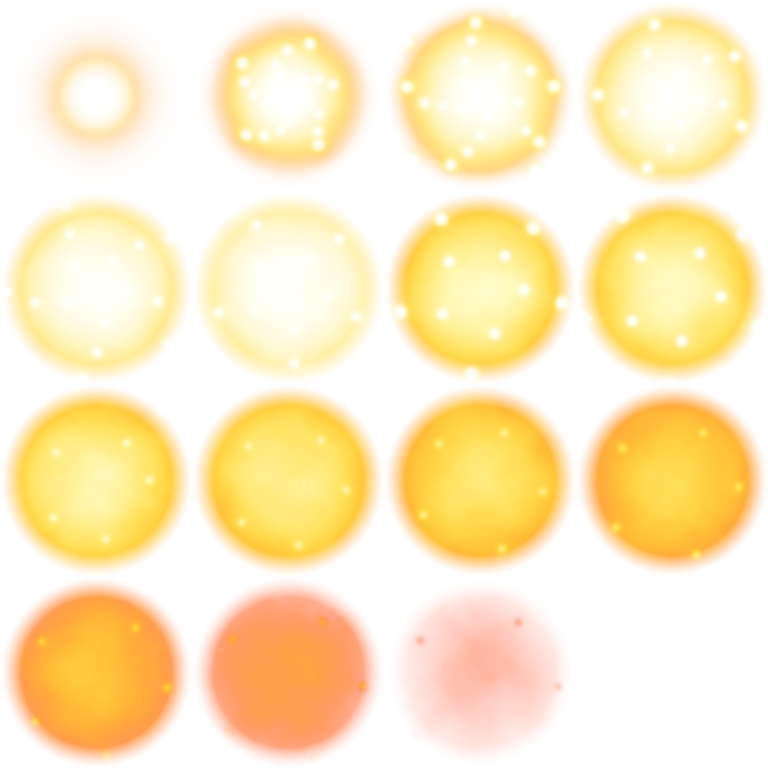
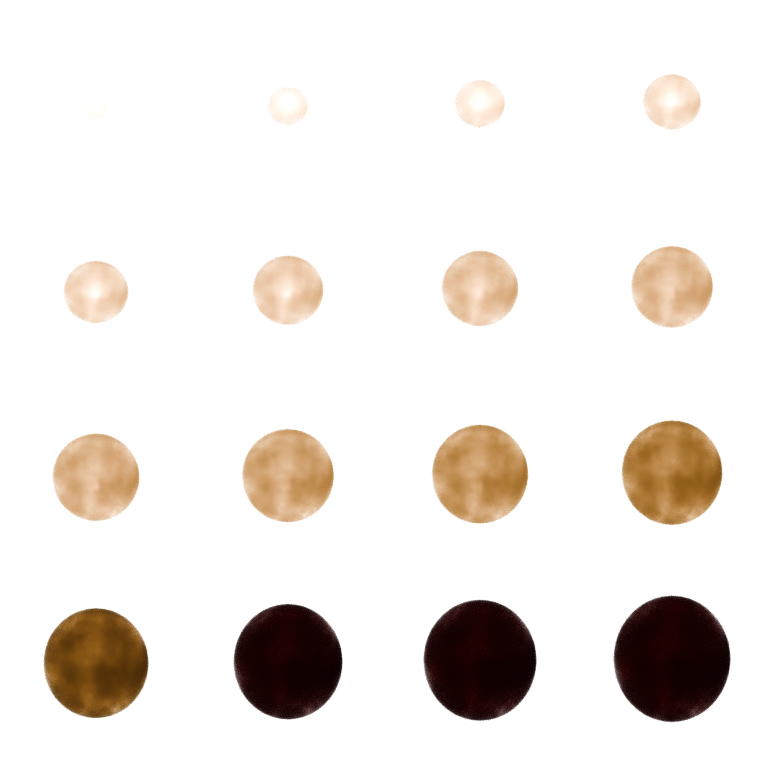
feat(vfx): impact Forge rendu en 3D volumetrique et particules physiques Cycles (v11.69)

diff --git a/tools/vfx_blender/forge_cycles_vfx.py b/tools/vfx_blender/forge_cycles_vfx.py
@@ -1,0 +1,205 @@
+#!/usr/bin/env python3
+"""
+SIMULATION VOLUMÉTRIQUE 3D & PARTICULES CYCLES — FORGE (lob_slag)
+Sans Mantaflow (instable en mode script 5.0) :
+- Volumes Cycles 3D procéduraux (fumée + flammes avec bruit 3D FBM, absorption, diffusion et émission Blackbody).
+- Éclaboussures de lave visqueuse (sphères de magma qui fusionnent, éclats avec gravité et rebond).
+- Rendu Cycles caméra 3/4 isométrique du jeu (52°).
+- Sortie : 16 frames rendues, planche 4x4 (192x192 px par frame) et GIF animé haute fidélité.
+"""
+import os, sys, math, shutil
+import bpy
+import numpy as np
+from PIL import Image
+
+ROOT = os.path.dirname(os.path.dirname(os.path.dirname(os.path.abspath(__file__))))
+WORK = os.path.join(ROOT, "cine", "_vfx_forge_cycles")
+OUT_TS = os.path.join(ROOT, "game", "assets", "vfx", "ts")
+OUT_SHOWCASE = os.path.join(ROOT, "refs", "vfx_showcase")
+ART = r"C:\Users\Administrator\.gemini\antigravity-ide\brain\f4d60812-8c84-40f0-9aad-921d86be3fca"
+
+os.makedirs(WORK, exist_ok=True)
+os.makedirs(OUT_TS, exist_ok=True)
+os.makedirs(OUT_SHOWCASE, exist_ok=True)
+
+RES = 192
+SAMPLES = 24
+NF = 16
+
+# 1. Scène propre
+bpy.ops.wm.read_factory_settings(use_empty=True)
+sc = bpy.context.scene
+sc.render.engine = "CYCLES"
+sc.cycles.device = "CPU"
+sc.cycles.samples = SAMPLES
+sc.cycles.use_denoising = True
+sc.render.film_transparent = True
+sc.render.resolution_x = RES
+sc.render.resolution_y = RES
+sc.view_settings.view_transform = "AgX"
+
+# World noir pur
+world = bpy.data.worlds.new("BlackWorld")
+sc.world = world
+
+# Caméra 3/4 vue jeu
+cam = bpy.data.objects.new("Cam", bpy.data.cameras.new("Cam"))
+sc.collection.objects.link(cam)
+cam.data.type = "ORTHO"
+cam.data.ortho_scale = 3.6
+tilt = math.radians(52)
+dist = 15.0
+target = (0.0, 0.0, 0.6)
+cam.location = (0.0, target[1] - dist * math.cos(tilt), target[2] + dist * math.sin(tilt))
+cam.rotation_euler = (math.radians(90) - tilt, 0, 0)
+sc.camera = cam
+
+# Sol pour rebonds
+ground = bpy.data.objects.new("Ground", bpy.data.meshes.new("GroundMesh"))
+bpy.ops.mesh.primitive_plane_add(size=10, location=(0, 0, 0))
+ground = bpy.context.active_object
+ground.name = "Ground"
+ground.hide_render = True
+col = ground.modifiers.new("Col", "COLLISION")
+col.settings.damping_factor = 0.6
+col.settings.friction_factor = 0.5
+
+# Matériau de volume feu + fumée (shader volumétrique 3D Cycles)
+mat_vol = bpy.data.materials.new("ExplosionVol")
+mat_vol.use_nodes = True
+nt = mat_vol.node_tree
+nt.nodes.clear()
+
+out_node = nt.nodes.new("ShaderNodeOutputMaterial")
+pv = nt.nodes.new("ShaderNodeVolumePrincipled")
+nt.links.new(pv.outputs["Volume"], out_node.inputs["Volume"])
+
+# Bruit 3D procédural volumétrique
+tex_coord = nt.nodes.new("ShaderNodeTexCoord")
+noise = nt.nodes.new("ShaderNodeTexNoise")
+noise.inputs["Scale"].default_value = 3.2
+noise.inputs["Detail"].default_value = 4.0
+noise.inputs["Roughness"].default_value = 0.6
+nt.links.new(tex_coord.outputs["Object"], noise.inputs["Vector"])
+
+# Contrôle densité et flamme
+map_range = nt.nodes.new("ShaderNodeMapRange")
+map_range.inputs["From Min"].default_value = 0.3
+map_range.inputs["From Max"].default_value = 0.7
+map_range.inputs["To Min"].default_value = 0.0
+map_range.inputs["To Max"].default_value = 8.0
+nt.links.new(noise.outputs["Fac"], map_range.inputs["Value"])
+nt.links.new(map_range.outputs["Result"], pv.inputs["Density"])
+
+pv.inputs["Color"].default_value = (0.15, 0.12, 0.10, 1.0)
+pv.inputs["Emission Color"].default_value = (1.0, 0.45, 0.08, 1.0)
+pv.inputs["Blackbody Intensity"].default_value = 1.0
+pv.inputs["Blackbody Tint"].default_value = (1.0, 0.7, 0.3, 1.0)
+
+# Sphère de volume qui s'étend et monte
+bpy.ops.mesh.primitive_uv_sphere_add(radius=0.5, location=(0, 0, 0.3))
+vol_obj = bpy.context.active_object
+vol_obj.name = "VolExplosion"
+vol_obj.data.materials.append(mat_vol)
+
+# Particules d'éclats de lave incandescents
+bpy.ops.mesh.primitive_ico_sphere_add(subdivisions=1, radius=0.06, location=(0, 0, -20))
+chunk = bpy.context.active_object
+chunk.name = "LavaChunk"
+
+mat_chunk = bpy.data.materials.new("LavaChunkMat")
+mat_chunk.use_nodes = True
+nt_c = mat_chunk.node_tree
+nt_c.nodes.clear()
+out_c = nt_c.nodes.new("ShaderNodeOutputMaterial")
+em_c = nt_c.nodes.new("ShaderNodeEmission")
+em_c.inputs["Color"].default_value = (1.0, 0.6, 0.1, 1.0)
+em_c.inputs["Strength"].default_value = 8.0
+nt_c.links.new(em_c.outputs["Emission"], out_c.inputs["Surface"])
+chunk.data.materials.append(mat_chunk)
+
+# Emetteur de particules
+bpy.ops.mesh.primitive_uv_sphere_add(radius=0.15, location=(0, 0, 0.2))
+emitter = bpy.context.active_object
+emitter.name = "LavaEmitter"
+ps_mod = emitter.modifiers.new("LavaSpray", "PARTICLE_SYSTEM")
+ps = ps_mod.particle_system
+pst = ps.settings
+pst.count = 45
+pst.frame_start, pst.frame_end = 1, 3
+pst.lifetime = 40
+pst.normal_factor = 3.5
+pst.factor_random = 1.5
+pst.object_align_factor = (0, 0, 2.0)
+pst.physics_type = "NEWTON"
+pst.mass = 0.4
+pst.render_type = "OBJECT"
+pst.instance_object = chunk
+pst.particle_size = 0.6
+pst.size_random = 0.5
+emitter.hide_render = True
+
+# Lumière centrale de l'explosion
+fire_light = bpy.data.objects.new("FireLight", bpy.data.lights.new("FireLight", "POINT"))
+sc.collection.objects.link(fire_light)
+fire_light.location = (0, 0, 0.4)
+fire_light.data.color = (1.0, 0.5, 0.1)
+
+# Animation par clés
+for f in range(1, NF + 1):
+    u = (f - 1) / float(NF - 1)
+    
+    # Expansion et montée du champignon
+    sz = 0.4 + 1.8 * (u ** 0.6)
+    z_pos = 0.2 + 0.8 * (u ** 0.8)
+    vol_obj.scale = (sz, sz, sz * (0.8 + 0.4 * u))
+    vol_obj.location = (0, 0, z_pos)
+    vol_obj.keyframe_insert("scale", frame=f)
+    vol_obj.keyframe_insert("location", frame=f)
+    
+    # Décroissance de la lumière
+    fire_light.data.energy = 5000.0 * max(0.0, (1.0 - u * 1.3))
+    fire_light.data.keyframe_insert("energy", frame=f)
+
+# Rendu des 16 frames
+frames_rendered = []
+for f in range(1, NF + 1):
+    sc.frame_set(f)
+    u = (f - 1) / float(NF - 1)
+    # Variation de température et dissipation du volume
+    pv.inputs["Temperature"].default_value = max(800.0, 3500.0 * (1.0 - u * 1.1))
+    pv.inputs["Emission Strength"].default_value = max(0.0, 12.0 * (1.0 - u * 1.2))
+    
+    frame_path = os.path.join(WORK, f"frame_{f:02d}.png")
+    sc.render.filepath = frame_path
+    bpy.ops.render.render(write_still=True)
+    frames_rendered.append(frame_path)
+    print(f"Rendered frame {f}/{NF}")
+
+# Assemblage de la planche 4x4 (768x768 -> 192x192 par case)
+sheet = Image.new("RGBA", (RES * 4, RES * 4), (0, 0, 0, 0))
+gif_frames = []
+
+for idx, p in enumerate(frames_rendered):
+    im = Image.open(p).convert("RGBA")
+    r, c = divmod(idx, 4)
+    sheet.paste(im, (c * RES, r * RES))
+    
+    # Frame pour le GIF de démonstration
+    bg = Image.new("RGBA", (RES, RES), (14, 16, 22, 255))
+    bg.alpha_composite(im)
+    gif_frames.append(bg.convert("P", palette=Image.ADAPTIVE))
+
+# Sauvegarde des sorties de jeu et de preview
+sheet_path = os.path.join(OUT_TS, "ts_slag_impact.png")
+sheet.save(sheet_path)
+print(f"Planche sauvegardée : {sheet_path}")
+
+gif_path = os.path.join(OUT_SHOWCASE, "vfx_forge_cycles.gif")
+gif_frames[0].save(gif_path, save_all=True, append_images=gif_frames[1:], duration=65, loop=0)
+print(f"GIF sauvegardé : {gif_path}")
+
+if os.path.exists(ART):
+    shutil.copyfile(gif_path, os.path.join(ART, "vfx_forge_cycles.gif"))
+    shutil.copyfile(sheet_path, os.path.join(ART, "ts_slag_impact.png"))
+    print("Fichiers copiés dans les artéfacts.")
